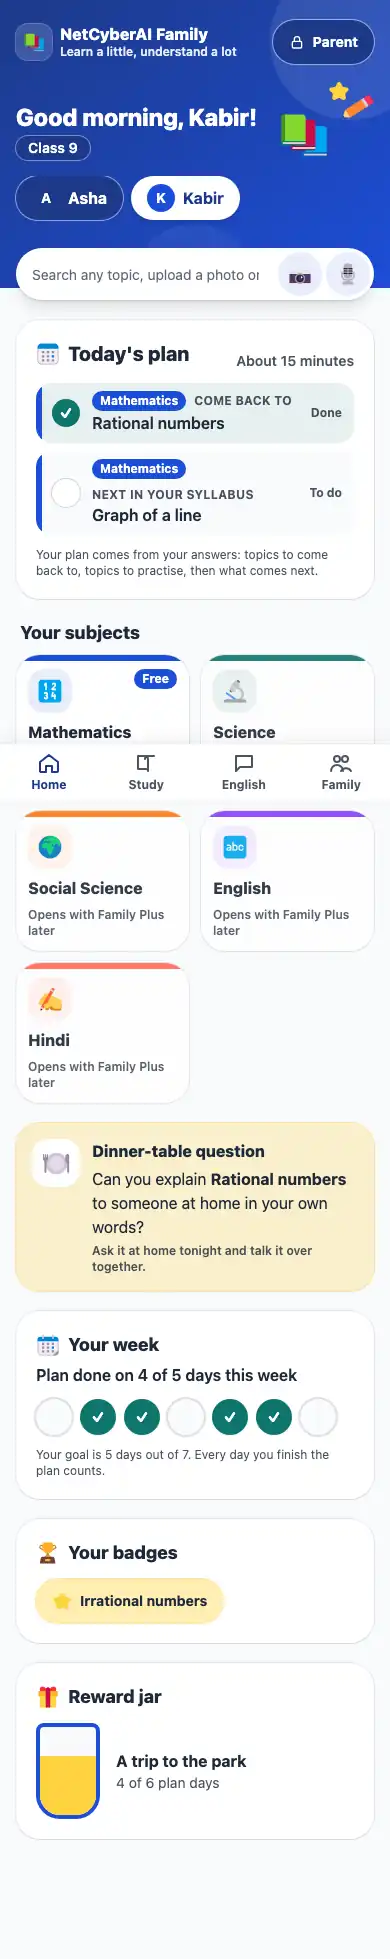
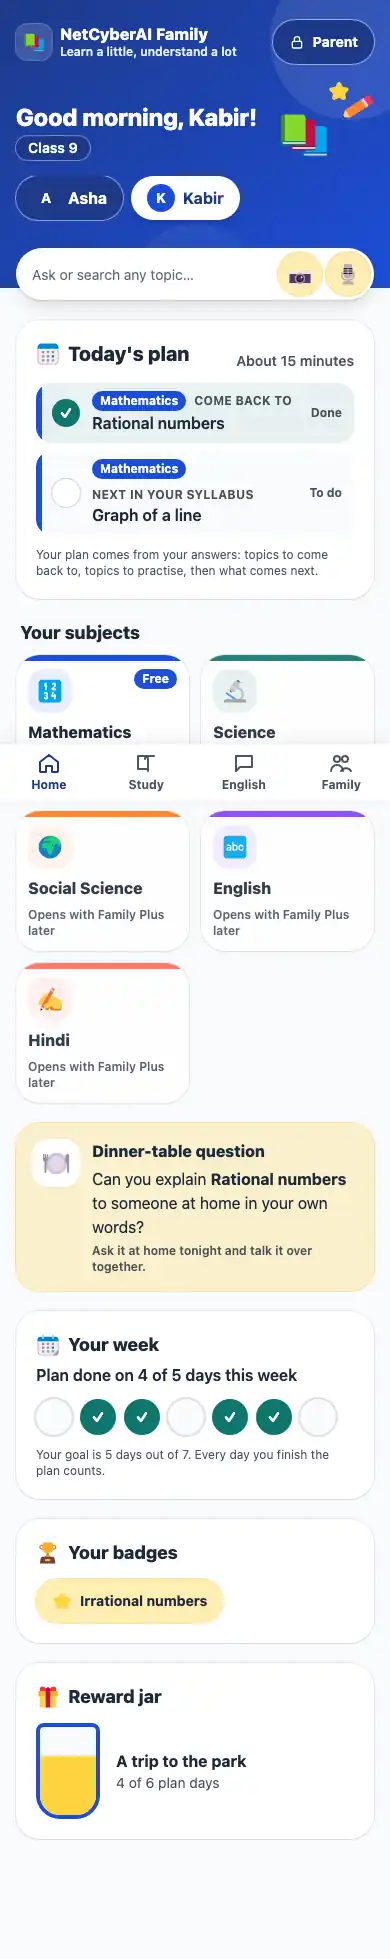
D1-2: the ask box's hint fits a 360 px phone; the camera and microphone stand out

diff --git a/src/lib/i18n/messages/hi.ts b/src/lib/i18n/messages/hi.ts
@@ -6877,8 +6877,8 @@ export const hi: Record<keyof typeof en, string> = {
   'fam.home.greet.afternoon': 'नमस्ते, {name}!',
   'fam.home.greet.evening': 'शुभ संध्या, {name}!',
   'fam.home.askLabel': 'सवाल पूछो',
-  'fam.home.askPlaceholder': 'कोई भी विषय खोजो, फ़ोटो भेजो या पूछो…',
-  'fam.home.askPlaceholderType': 'कोई भी विषय खोजो या सवाल पूछो…',
+  'fam.home.askPlaceholder': 'कुछ भी पूछो या खोजो…',
+  'fam.home.askPlaceholderType': 'कुछ भी पूछो या खोजो…',
   'fam.home.subjectsTitle': 'तुम्हारे विषय',
   'fam.home.tileProgress': '{checked} जाँचे, {mastered} में महारत',
   'fam.home.tileStart': 'अभी शुरू नहीं किया',

diff --git a/src/lib/i18n/messages/en.ts b/src/lib/i18n/messages/en.ts
@@ -6889,8 +6889,8 @@ export const en = {
   'fam.home.greet.afternoon': 'Good afternoon, {name}!',
   'fam.home.greet.evening': 'Good evening, {name}!',
   'fam.home.askLabel': 'Ask a question',
-  'fam.home.askPlaceholder': 'Search any topic, upload a photo or ask…',
-  'fam.home.askPlaceholderType': 'Search any topic or ask a question…',
+  'fam.home.askPlaceholder': 'Ask or search any topic…',
+  'fam.home.askPlaceholderType': 'Ask or search any topic…',
   'fam.home.subjectsTitle': 'Your subjects',
   'fam.home.tileProgress': '{checked} checked, {mastered} mastered',
   'fam.home.tileStart': 'Not started yet',

diff --git a/src/components/family/home/AskBox.tsx b/src/components/family/home/AskBox.tsx
@@ -17,7 +17,7 @@ export function AskBox({ w, camera, voice, tone }: { w: Words; camera: boolean; 
   const [asked, setAsked] = useState<UnderstandInput | null>(null);
   const [speaking, setSpeaking] = useState(false);
   const ready = text.trim().length >= 3;
-  const icon = `flex h-11 w-11 shrink-0 items-center justify-center rounded-full bg-royal/10 hover:bg-royal/20 ${PRESS}`;
+  const icon = `flex h-11 w-11 shrink-0 items-center justify-center rounded-full bg-sunshine/40 ring-1 ring-gold/50 hover:bg-sunshine/60 ${PRESS}`;
   return (
     <div data-family-ask className="flex flex-col gap-3">
       <form
